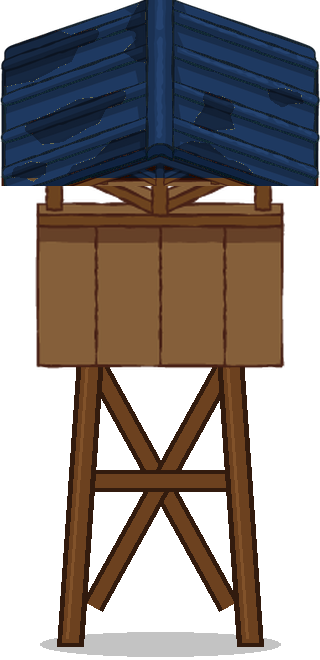
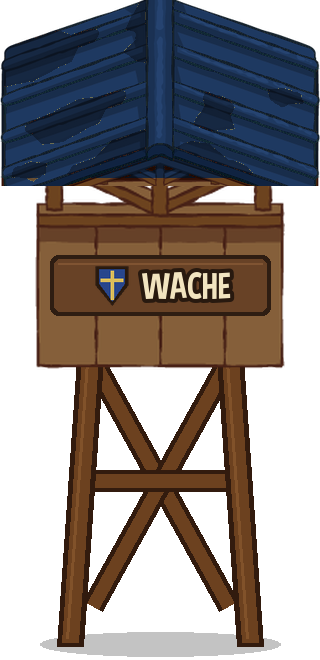
Schilder an allen Gebaeuden (HOF, LADEN, KNOLLIS, SAATGUT, WACHE), Bild-Skripte in Tools/Buildings

Changed region(s): [[0.1562, 0.3636, 0.8438, 0.4848]]

diff --git a/Tools/Buildings/signs.py b/Tools/Buildings/signs.py
@@ -1,0 +1,89 @@
+"""Schilder in die Gebaeudebilder malen, damit man ihren Zweck erkennt (nach dem Umfaerben ausfuehren).
+Aufruf: python signs.py <Buildings-Ordner> <Assets-Ordner>"""
+import sys
+from PIL import Image, ImageDraw, ImageFont
+
+bdir, assets = sys.argv[1], sys.argv[2]
+FONT = f"{assets}/Resources/Fonts/CurseCasual.ttf"
+WOOD, WOOD_HI, FRAME = (104, 66, 38), (128, 84, 50), (46, 29, 18)
+CREAM, INK = (242, 228, 192), (40, 25, 15)
+
+
+def font(px): return ImageFont.truetype(FONT, px)
+
+
+def board(im, cx, cy, w, h, text, icon=None, hang=False):
+    """Holzschild mit Rahmen, Text in Creme mit dunkler Kontur, optional Bild links vom Text."""
+    d = ImageDraw.Draw(im)
+    x0, y0, x1, y1 = cx - w // 2, cy - h // 2, cx + w // 2, cy + h // 2
+    if hang:   # zwei Ketten nach oben
+        for hx in (x0 + 18, x1 - 18):
+            d.line([(hx, y0 - 16), (hx, y0)], fill=FRAME, width=4)
+    d.rounded_rectangle([x0, y0, x1, y1], radius=8, fill=FRAME)
+    d.rounded_rectangle([x0 + 4, y0 + 4, x1 - 4, y1 - 4], radius=6, fill=WOOD)
+    d.line([(x0 + 8, y0 + 8), (x1 - 8, y0 + 8)], fill=WOOD_HI, width=2)
+    size = int(h * 0.62)
+    f = font(size)
+    tw = d.textlength(text, font=f)
+    iw = 0
+    if icon is not None:
+        ih = int(h * 0.78)
+        ic = icon.resize((int(icon.size[0] * ih / icon.size[1]), ih), Image.LANCZOS)
+        iw = ic.size[0] + 6
+    while tw + iw > w - 16 and size > 10:
+        size -= 1; f = font(size); tw = d.textlength(text, font=f)
+    tx = cx - (tw + iw) / 2 + iw
+    if icon is not None:
+        im.alpha_composite(ic, (int(cx - (tw + iw) / 2), int(cy - ic.size[1] / 2)))
+    d.text((tx, cy), text, font=f, fill=CREAM, anchor="lm", stroke_width=max(2, size // 9), stroke_fill=INK)
+
+
+def knolli_icon(s=64):
+    """Kleiner Knolli: braune Knolle mit Augen und Blatt."""
+    im = Image.new("RGBA", (s, s), (0, 0, 0, 0)); d = ImageDraw.Draw(im)
+    d.ellipse([6, 14, s - 6, s - 4], fill=INK)
+    d.ellipse([10, 18, s - 10, s - 8], fill=(176, 122, 70))
+    for ex in (s * 0.38, s * 0.62):
+        d.ellipse([ex - 6, s * 0.48 - 7, ex + 6, s * 0.48 + 7], fill=(250, 245, 235))
+        d.ellipse([ex - 3, s * 0.5 - 3, ex + 3, s * 0.5 + 4], fill=INK)
+    d.polygon([(s * 0.5, 16), (s * 0.35, 2), (s * 0.55, 6)], fill=(90, 150, 60), outline=INK)
+    return im
+
+
+def shield_icon(s=64):
+    im = Image.new("RGBA", (s, s), (0, 0, 0, 0)); d = ImageDraw.Draw(im)
+    pts = [(s * 0.15, s * 0.1), (s * 0.85, s * 0.1), (s * 0.85, s * 0.5), (s * 0.5, s * 0.95), (s * 0.15, s * 0.5)]
+    d.polygon(pts, fill=INK)
+    inner = [(s * 0.22, s * 0.17), (s * 0.78, s * 0.17), (s * 0.78, s * 0.48), (s * 0.5, s * 0.85), (s * 0.22, s * 0.48)]
+    d.polygon(inner, fill=(40, 70, 140))
+    d.line([(s * 0.5, s * 0.2), (s * 0.5, s * 0.82)], fill=(220, 190, 90), width=5)
+    d.line([(s * 0.26, s * 0.4), (s * 0.74, s * 0.4)], fill=(220, 190, 90), width=5)
+    return im
+
+
+coin = Image.open(f"{assets}/HappyHarvest/Art/UI/Sprite_coin_icon.png").convert("RGBA")
+seed = Image.open(f"{assets}/HappyHarvest/Art/Crops/Wheat/Sprites/Sprite_Wheat_seedbag.png").convert("RGBA")
+seed = seed.crop(seed.getbbox())
+
+# Laden: Schriftzug in die leere Werbetafel, Muenze ins runde Schild
+im = Image.open(f"{bdir}/laden.png").convert("RGBA"); d = ImageDraw.Draw(im)
+f = font(78)
+d.text((240, 305), "LADEN", font=f, fill=(70, 44, 24), anchor="mm", stroke_width=3, stroke_fill=(230, 210, 170))
+for cx in (110, 370):
+    c = coin.resize((54, 51), Image.LANCZOS); im.alpha_composite(c, (cx - 27, 280))
+c = coin.resize((62, 59), Image.LANCZOS); im.alpha_composite(c, (520 - 31, 390 - 30))
+im.save(f"{bdir}/laden.png")
+
+board_jobs = [
+    ("haus", (212, 268, 150, 44, "HOF", None, False)),
+    ("huette_a", (144, 238, 220, 46, "KNOLLIS", knolli_icon(), True)),
+    ("huette_b", (141, 232, 220, 46, "KNOLLIS", knolli_icon(), True)),
+    ("muehle", (230, 403, 270, 50, "SAATGUT", seed, False)),
+    ("turm_holz", (160, 285, 220, 60, "WACHE", shield_icon(), False)),
+    ("turm_stein", (160, 285, 220, 60, "WACHE", shield_icon(), False)),
+]
+for name, args in board_jobs:
+    im = Image.open(f"{bdir}/{name}.png").convert("RGBA")
+    board(im, *args)
+    im.save(f"{bdir}/{name}.png")
+    print("Schild:", name)

diff --git a/Tools/Buildings/tower.py b/Tools/Buildings/tower.py
@@ -1,0 +1,54 @@
+import sys
+from PIL import Image, ImageDraw
+out = sys.argv[1]
+W, H = 320, 660
+img = Image.new("RGBA", (W, H), (0, 0, 0, 0))
+d = ImageDraw.Draw(img)
+ink = (74, 44, 26, 255); wood = (160, 102, 56, 255); woodHi = (190, 128, 74, 255)
+legTop, ground = 330, H - 14
+# Schatten
+d.ellipse([40, ground - 14, W - 40, ground + 10], fill=(0, 0, 0, 60))
+def beam(p0, p1, w):
+    d.line([p0, p1], fill=ink, width=w + 8)
+    d.line([p0, p1], fill=wood, width=w)
+# Streben (X) und Riegel zwischen den Beinen
+xl, xr = 92, W - 92
+beam((xl, legTop + 30), (xr, ground - 40), 14)
+beam((xr, legTop + 30), (xl, ground - 40), 14)
+beam((xl, legTop + 150), (xr, legTop + 150), 14)
+# Beine (leicht gespreizt)
+for x0, x1 in [(xl, xl - 22), (xr, xr + 22)]:
+    d.polygon([(x0 - 13, legTop), (x0 + 13, legTop), (x1 + 13, ground), (x1 - 13, ground)], fill=ink)
+    d.polygon([(x0 - 8, legTop), (x0 + 8, legTop), (x1 + 8, ground - 4), (x1 - 8, ground - 4)], fill=wood)
+    d.line([(x0 - 3, legTop + 4), (x1 - 3, ground - 8)], fill=woodHi, width=3)
+# Kanzel: Bretterwand mit Verstrebung
+cab = Image.open("deco_12.png").convert("RGBA")
+cw = 250; ch = int(cab.size[1] * cw / cab.size[0])
+cab = cab.resize((cw, ch), Image.LANCZOS)
+cabTop = legTop - ch + 40
+img.alpha_composite(cab, ((W - cw) // 2, cabTop))
+# Dach: oberer Teil von building_08 (Dach mit Giebel)
+b8 = Image.open("building_08.png").convert("RGBA")
+roof = b8.crop((0, 0, b8.size[0], 268))
+rw = W; rh = int(roof.size[1] * rw / roof.size[0])
+roof = roof.resize((rw, rh), Image.LANCZOS)
+img.alpha_composite(roof, (0, cabTop - rh + 46))
+bb = img.getbbox(); img = img.crop((0, bb[1], W, H))
+img.save(out)
+print(img.size)
+
+# Dach in das Blau des Wohnhauses, alles etwas dunkler (wie das Haus)
+import colorsys
+px = img.load()
+for y in range(img.size[1]):
+    for x in range(img.size[0]):
+        r, g, b, a = px[x, y]
+        if a == 0: continue
+        h, s, v = colorsys.rgb_to_hsv(r/255, g/255, b/255); deg = h * 360
+        if 70 <= deg < 190 and s > 0.08:            # gruenes Blechdach -> Hausblau
+            h, s, v = 0.6, min(1, 0.55 + s * 0.3), v * 0.82
+        elif y < 178 and 5 <= deg < 60 and s > 0.15 and v > 0.25:   # Rostflecken auf dem Dach -> dunkleres Blau
+            h, s, v = 0.6, 0.6, v * 0.62
+        nr = colorsys.hsv_to_rgb(h, min(1, s * 1.1), v * 0.68)
+        px[x, y] = (int(nr[0]*255), int(nr[1]*255), int(nr[2]*255), a)
+img.save(out)

diff --git a/Tools/Buildings/recolor_all.py b/Tools/Buildings/recolor_all.py
@@ -1,0 +1,48 @@
+"""Gemeinsame Palette fuer alle Gebaeude: Dach ins Hausblau, blaue Waende zu hellem Putz, alles dunkler und satter.
+Aufruf: python recolor_all.py <City-Ordner> <Ziel-Ordner>"""
+import sys, colorsys
+from PIL import Image
+
+src_dir, out_dir = sys.argv[1], sys.argv[2]
+BLUE, DARK = 0.6, 0.66
+
+
+def hsv(c): return colorsys.rgb_to_hsv(c[0] / 255, c[1] / 255, c[2] / 255)
+def rgb(h, s, v):
+    r, g, b = colorsys.hsv_to_rgb(h % 1, max(0, min(1, s)), max(0, min(1, v)))
+    return (int(r * 255), int(g * 255), int(b * 255))
+
+
+# roof: Dachbereich (Anteil der Bildhoehe von oben); patches: Flecken auf dem Dach bis zu diesem Anteil;
+# roofHues: Farbtoene des Dachs (Grad); wallsBlue: blaue Waende zu Putz
+JOBS = {
+    "haus":     dict(src="building_08.png", roof=0.6, patches=0.56, roofHues=[(70, 190)], wallsBlue=False),
+    "muehle":   dict(src="building_05.png", roof=0.6, patches=0.0, roofHues=[(0, 50), (340, 360)], wallsBlue=False),
+    "huette_a": dict(src="building_06.png", roof=0.5, patches=0.0, roofHues=[(0, 20), (330, 360)], wallsBlue=False),
+    "huette_b": dict(src="building_07.png", roof=0.54, patches=0.0, roofHues=[(15, 55)], wallsBlue=True),
+}
+
+for name, j in JOBS.items():
+    im = Image.open(f"{src_dir}/{j['src']}").convert("RGBA")
+    W, H = im.size
+    px = im.load()
+    for y in range(H):
+        fy = y / H
+        for x in range(W):
+            r, g, b, a = px[x, y]
+            if a == 0: continue
+            h, s, v = hsv((r, g, b)); deg = h * 360
+            nh, ns, nv = h, s, v
+            inRoofHue = any(lo <= deg < hi for lo, hi in j["roofHues"])
+            if v < 0.3:
+                nh, ns = 0.07, 0.55                                  # Konturen dunkelbraun
+            elif fy < j["roof"] and inRoofHue and s > 0.08:
+                nh, ns, nv = BLUE, 0.55 + s * 0.3, v * 0.82          # Dach -> Hausblau
+            elif fy < j["patches"] and 5 <= deg < 60 and s > 0.15:
+                nh, ns, nv = BLUE, 0.6, v * 0.62                     # Rostflecken auf dem Dach
+            elif j["wallsBlue"] and 185 <= deg < 235 and s > 0.15 and v < 0.75 and fy >= j["roof"]:
+                nh, ns, nv = 0.08, 0.08, 0.78 + v * 0.22             # blaue Waende -> heller Putz
+            out = rgb(nh, ns * 1.1, nv * DARK)
+            px[x, y] = out + (a,)
+    im.save(f"{out_dir}/{name}.png")
+    print(name, im.size)

diff --git a/Tools/Buildings/recolor_shop.py b/Tools/Buildings/recolor_shop.py
@@ -1,0 +1,37 @@
+import sys, colorsys
+from PIL import Image
+src, out = sys.argv[1], sys.argv[2]
+im = Image.open(src).convert("RGBA"); W, H = im.size
+px = im.load()
+def hsv(c): return colorsys.rgb_to_hsv(c[0]/255, c[1]/255, c[2]/255)
+def rgb(h, s, v): r, g, b = colorsys.hsv_to_rgb(h % 1, max(0, min(1, s)), max(0, min(1, v))); return (int(r*255), int(g*255), int(b*255))
+BLUE = 0.6       # Dachblau des Wohnhauses (~215°)
+OCHRE = 0.11     # Ockerholz der Tuerrahmen
+DARK = float(sys.argv[3]) if len(sys.argv) > 3 else 0.74
+for y in range(H):
+    for x in range(W):
+        r, g, b, a = px[x, y]
+        if a == 0: continue
+        h, s, v = hsv((r, g, b))
+        deg = h * 360
+        awning = 440 <= y <= 535 and x < 470
+        aircon = x < 210 and y < 120
+        if v < 0.3:                                   # Konturen: dunkles Holzbraun statt Marineblau
+            nr = rgb(0.07, 0.55, v * 1.05)
+        elif (deg < 18 or deg > 340) and s < 0.55:    # altrosa Dach und Gesimse -> Hausblau
+            nr = rgb(BLUE, 0.55 + s * 0.3, v * 0.82)
+        elif 5 <= deg < 35 and s >= 0.55:             # kraeftiges Orange: Markise blau, Schildrahmen Ocker
+            nr = rgb(BLUE, 0.62, v * 0.85) if awning else rgb(OCHRE, 0.6, v * 0.95)
+        elif 18 <= deg < 45 and s < 0.55 and v > 0.75: # Pfirsich (Schildflaeche, Markisenrand) -> Creme
+            nr = rgb(0.09, 0.12, min(1, v * 1.02))
+        elif 185 <= deg < 235 and s > 0.15 and v < 0.75:  # blaue Ziegelwand -> heller Putz
+            nr = rgb(0.08, 0.08, 0.78 + v * 0.22)
+        elif 50 <= deg < 150 and s < 0.3 and v > 0.45 and not aircon:   # salbeigruene Rahmen und Ecksteine -> helles Holz
+            nr = rgb(0.09, 0.38, v * 0.92)
+        else:
+            nr = (r, g, b)
+        # insgesamt dunkler und etwas satter, wie das Wohnhaus
+        hh, ss, vv = hsv(nr)
+        nr = rgb(hh, min(1, ss * 1.12), vv * DARK)
+        px[x, y] = nr + (a,)
+im.save(out)

diff --git a/Tools/Buildings/stone_tower.py b/Tools/Buildings/stone_tower.py
@@ -1,0 +1,17 @@
+"""Steinturm aus dem Holzturm: nur Beine und Streben (unter der Kanzel) werden grau.
+Aufruf: python stone_tower.py <Buildings-Ordner>"""
+import sys, colorsys
+from PIL import Image
+bdir = sys.argv[1]
+im = Image.open(f"{bdir}/turm_holz.png").convert("RGBA"); px = im.load()
+W, H = im.size
+start = 330 - (660 - H) + 44   # unter der Kanzel
+for y in range(start, H):
+    for x in range(W):
+        r, g, b, a = px[x, y]
+        if a == 0: continue
+        h, s, v = colorsys.rgb_to_hsv(r/255, g/255, b/255); deg = h*360
+        if 10 <= deg < 50 and s > 0.15:
+            nr = colorsys.hsv_to_rgb(0.1, 0.08, v * 0.95)
+            px[x, y] = (int(nr[0]*255), int(nr[1]*255), int(nr[2]*255), a)
+im.save(f"{bdir}/turm_stein.png")

diff --git a/DECISIONS.md b/DECISIONS.md
@@ -461,4 +461,6 @@
 - Das Haupthaus ist jetzt building_08 (Backsteinhaus mit Satteldach) statt des alten Cozy-Farm-Hauses, damit alle Gebäude im selben Comic-Stil sind. Seine Front steht dort, wo die alte Front war; Breite 3,7 Einheiten. Fällt das Bild weg, kommt das alte Haus zurück.
 - Gemeinsame Palette: Dächer im Hausblau, blaue Wände werden heller Putz, Konturen dunkelbraun, alles dunkler (×0,66) und etwas satter. Gilt für Haupthaus, Knolli-Hütten, Saatgutmühle (Laden und Turm hatten das schon).
 - Saatgutmühle jetzt building_05 – das Satteldachhaus ist das Haupthaus und soll nicht doppelt vorkommen.
+- Schilder in den Bildern, damit man den Zweck erkennt: Haupthaus „HOF“, Laden „LADEN“ in der Werbetafel plus Münzen, Knolli-Hütten hängendes Schild „KNOLLIS“ mit Knolli-Gesicht, Saatgutmühle „SAATGUT“ mit Samentüte, Wachturm „WACHE“ mit Schild. Schrift: Curse Casual (wie die Oberfläche).
+- Die Skripte, die alle Gebäudebilder erzeugen (Umfärben, Turm, Schilder), liegen jetzt in Tools/Buildings (mit Reihenfolge im README).
 

diff --git a/Tools/Buildings/README.md b/Tools/Buildings/README.md
@@ -1,0 +1,13 @@
+# Gebäudebilder erzeugen
+
+Quelle: `Assets/City Assets Pack - Basic` (nicht im Repo), Ergebnis: `Assets/Resources/Buildings`.
+Braucht Python mit Pillow. Reihenfolge (die Schilder kommen zuletzt, Umfärben überschreibt sie):
+
+```
+CITY="Assets/City Assets Pack - Basic"; OUT="Assets/Resources/Buildings"
+python Tools/Buildings/recolor_all.py "$CITY" "$OUT"                       # Haus, Hütten, Mühle
+python Tools/Buildings/recolor_shop.py "$CITY/building_04.png" "$OUT/laden.png" 0.64
+(cd "$CITY" && python ../../Tools/Buildings/tower.py "../Resources/Buildings/turm_holz.png")
+python Tools/Buildings/stone_tower.py "$OUT"
+python Tools/Buildings/signs.py "$OUT" Assets                               # Schilder: HOF, LADEN, KNOLLIS, SAATGUT, WACHE
+```
